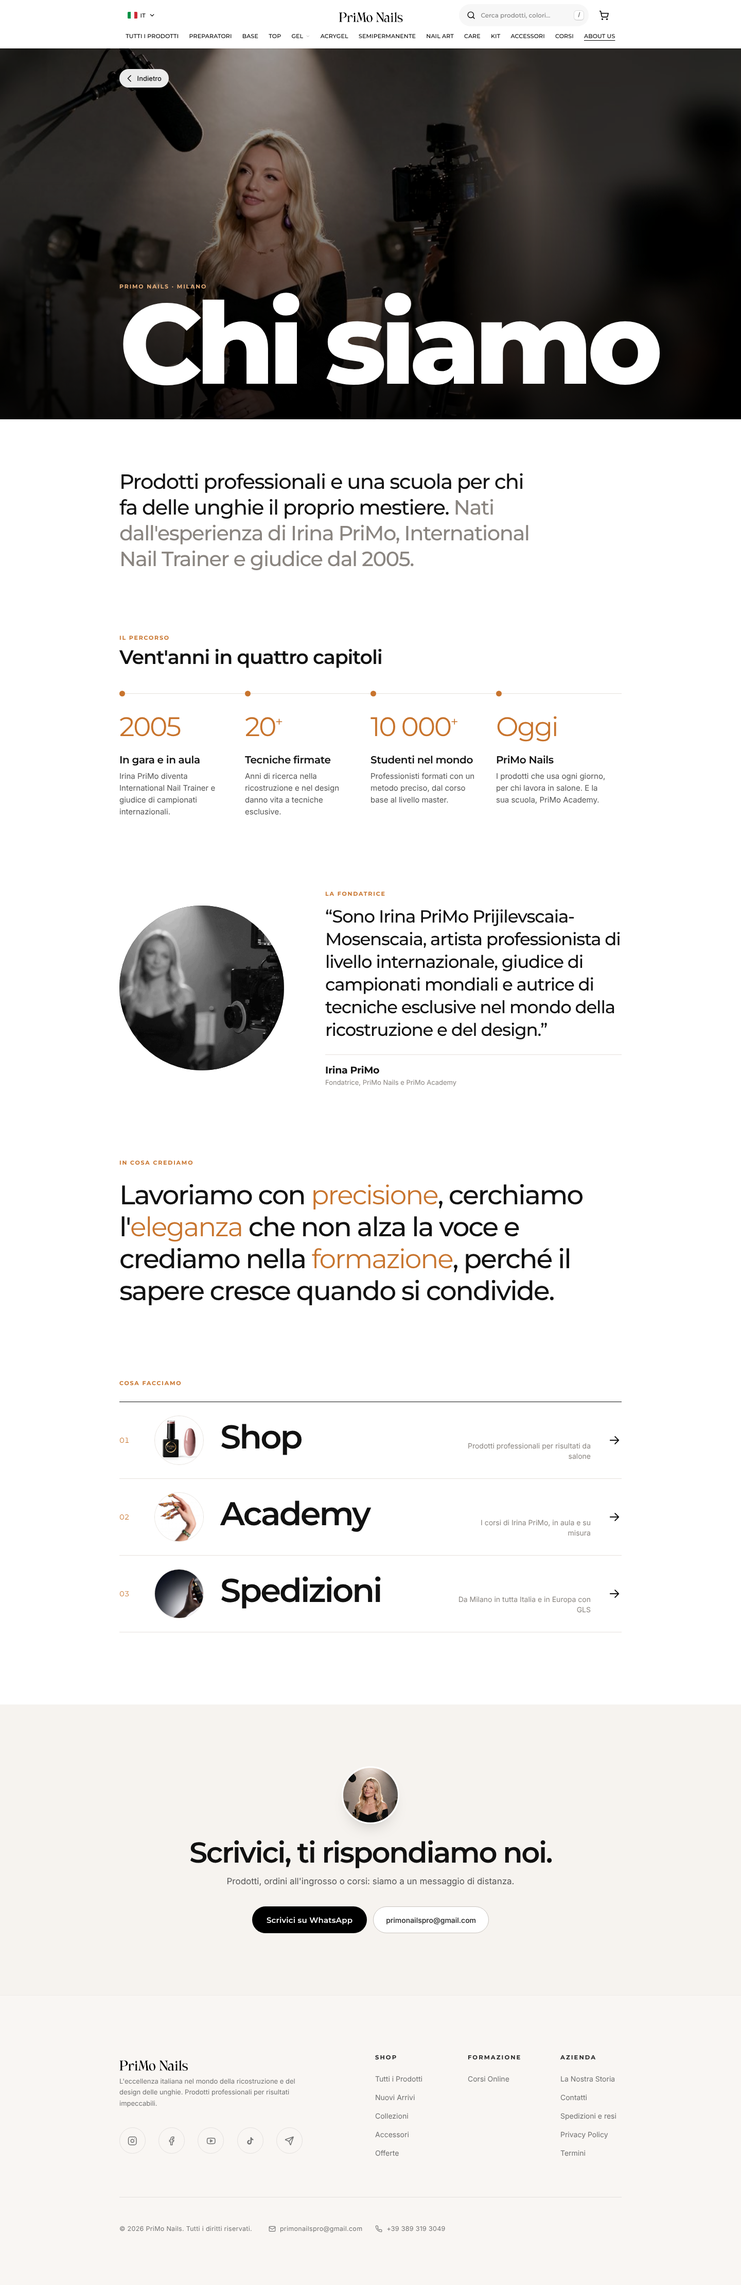
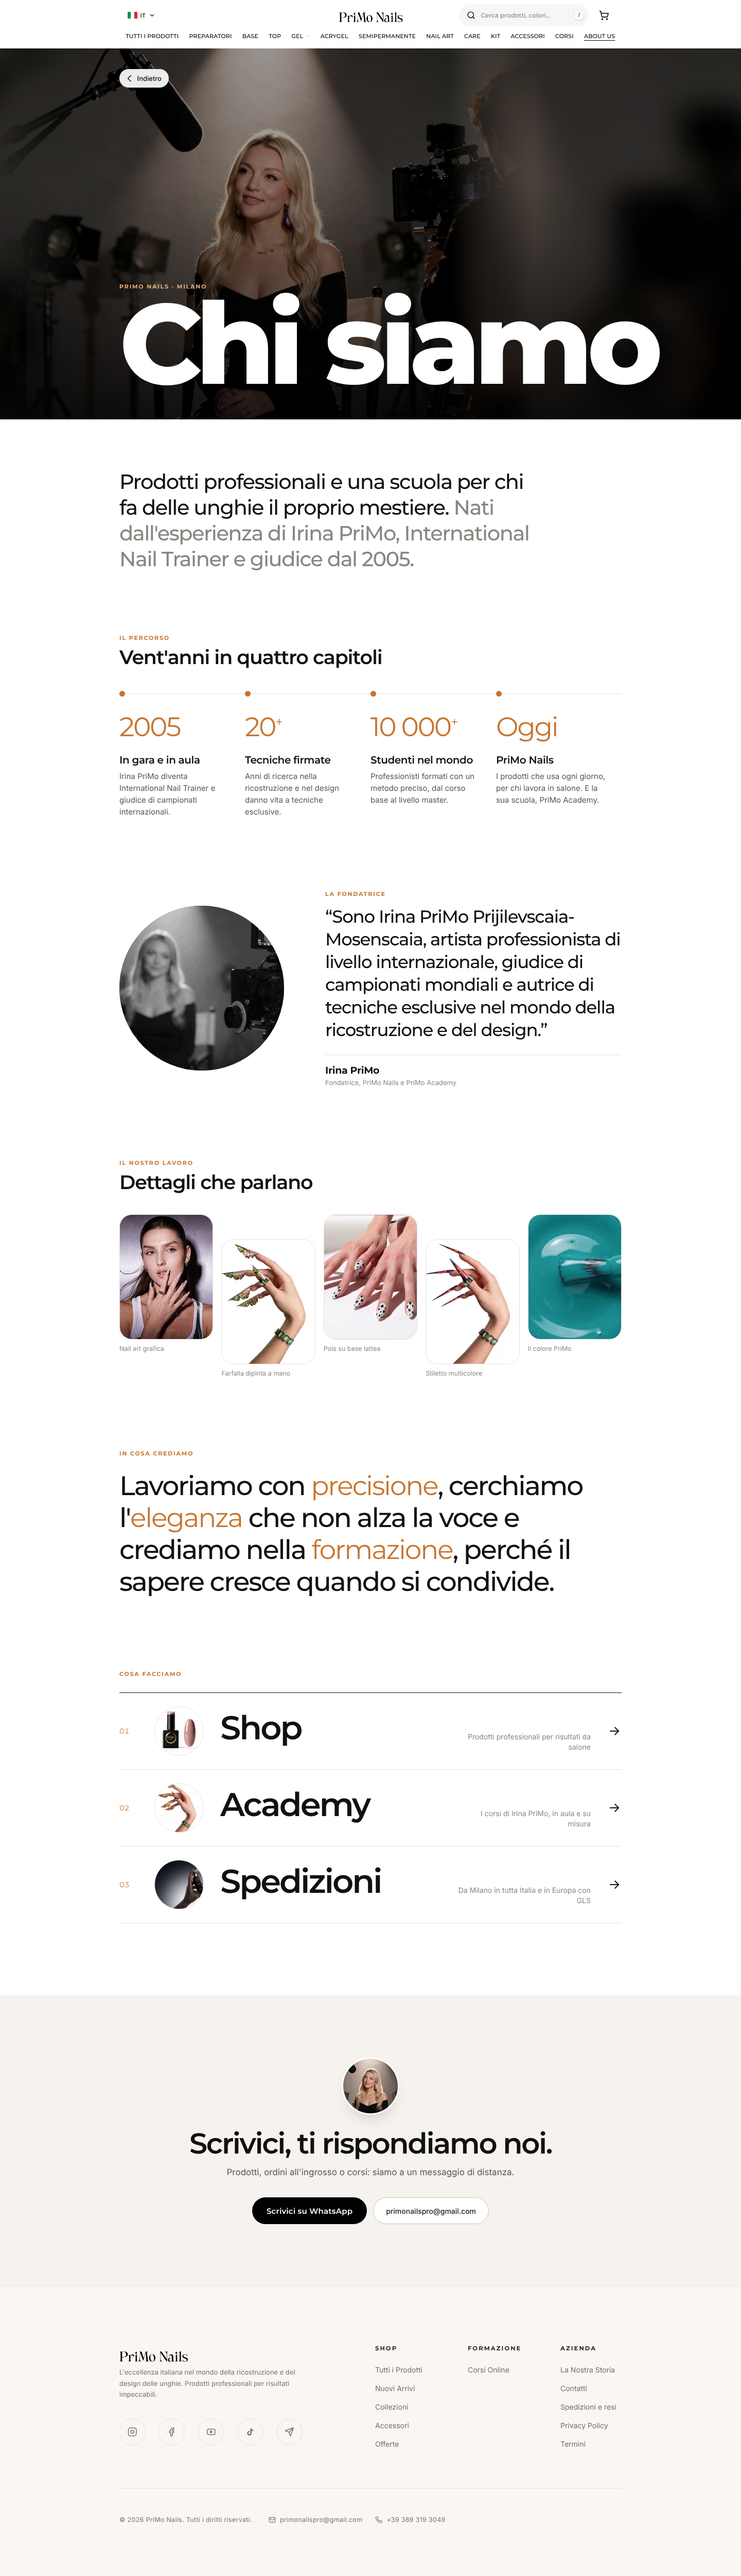
Chi siamo C/D: add a work gallery
A draggable strip of five tall photos with captions on phones and a
staggered row of five on desktop, after the founder section.

Claude-Session: https://claude.ai/code/session_017EUExbH1pksevugedMDwEj

diff --git a/chi-siamo.html b/chi-siamo.html
@@ -17,7 +17,7 @@
 <link rel="stylesheet" href="css/site.css?v=c7978bb5">
 <link rel="stylesheet" href="css/search.css?v=b89386fe">
 <link rel="stylesheet" href="css/academy.css?v=81ab524e">
-<link rel="stylesheet" href="css/about.css?v=87821489">
+<link rel="stylesheet" href="css/about.css?v=8da96cd0">
 </head>
 <body class="about">
 <div class="page" id="page">
@@ -186,6 +186,17 @@
         <h2 id="founder-h" class="sr">Irina PriMo</h2>
         <p class="abc-words">“Sono Irina PriMo Prijilevscaia-Mosenscaia, artista professionista di livello internazionale, giudice di campionati mondiali e autrice di tecniche esclusive nel mondo della ricostruzione e del design.”</p>
         <p class="abc-name">Irina PriMo<span>Fondatrice, PriMo Nails e PriMo Academy</span></p>
+      </div>
+    </section>
+
+    <section class="abc-gal" aria-labelledby="cg-h">
+      <div class="abc-gal-head"><p class="cx-eyebrow">Il nostro lavoro</p><h2 id="cg-h">Dettagli che parlano</h2></div>
+      <div class="abc-strip" data-drag tabindex="0" aria-label="Galleria lavori">
+        <figure><img src="img/about-portrait.jpg" alt="Manicure a mandorla con nail art grafica" loading="lazy"><figcaption>Nail art grafica</figcaption></figure>
+        <figure><img src="img/course2.jpg" alt="Nail art a farfalla dipinta a mano" loading="lazy"><figcaption>Farfalla dipinta a mano</figcaption></figure>
+        <figure><img src="img/gallery-dots.jpg" alt="Manicure bianca a pois neri" loading="lazy"><figcaption>Pois su base lattea</figcaption></figure>
+        <figure><img src="img/course3.jpg" alt="Unghie stiletto con decorazione multicolore" loading="lazy"><figcaption>Stiletto multicolore</figcaption></figure>
+        <figure><img src="img/hero2.jpg" alt="Gel color petrolio PriMo Nails" loading="lazy"><figcaption>Il colore PriMo</figcaption></figure>
       </div>
     </section>
 

diff --git a/css/about.css b/css/about.css
@@ -344,3 +344,23 @@
   .abd-end>p{max-width:none;font-size:17px;line-height:26px}
   .abd-ctas{flex-direction:row;justify-content:center;gap:12px;margin-top:36px}
 }
+
+/* C/D gallery: a draggable strip of tall photos on phones, a staggered row of five on desktop */
+.abc-gal{padding:72px 0 0}
+.abc-gal-head{padding:0 24px}
+.abc-gal h2{margin:8px 0 0;font-size:30px;line-height:36px;font-weight:600;letter-spacing:-.9px;color:#111}
+.abc-strip{display:flex;gap:12px;margin-top:28px;padding:0 24px 4px;overflow-x:auto;scroll-snap-type:x mandatory;scroll-padding:0 24px;scrollbar-width:none;overscroll-behavior-x:contain}
+.abc-strip::-webkit-scrollbar{display:none}
+.abc-strip figure{flex:none;width:64%;margin:0;scroll-snap-align:start}
+.abc-strip img{display:block;width:100%;aspect-ratio:3/4;object-fit:cover;border-radius:20px;border:1px solid var(--cx-line);background:#fff;transition:transform .5s var(--ease)}
+.abc-strip figcaption{margin-top:10px;font-family:var(--fi);font-size:12.5px;color:#8a8580}
+@media (hover:hover) and (pointer:fine){ .abc-strip figure:hover img{transform:translateY(-6px)} }
+@media (min-width:1024px){
+  .abc-gal{max-width:976px;margin:0 auto;padding-top:140px}
+  .abc-gal-head{padding:0}
+  .abc-gal h2{font-size:38px;line-height:44px;letter-spacing:-1.2px}
+  .abc-strip{display:grid;grid-template-columns:repeat(5,1fr);gap:16px;margin-top:40px;padding:0 0 48px;overflow:visible;cursor:default}
+  .abc-strip figure{width:auto}
+  .abc-strip figure:nth-child(even){transform:translateY(48px)}
+  .abc-strip img{border-radius:24px}
+}

diff --git a/src/pages/chi-siamo.html b/src/pages/chi-siamo.html
@@ -130,6 +130,17 @@
       </div>
     </section>
 
+    <section class="abc-gal" aria-labelledby="cg-h">
+      <div class="abc-gal-head"><p class="cx-eyebrow">Il nostro lavoro</p><h2 id="cg-h">Dettagli che parlano</h2></div>
+      <div class="abc-strip" data-drag tabindex="0" aria-label="Galleria lavori">
+        <figure><img src="img/about-portrait.jpg" alt="Manicure a mandorla con nail art grafica" loading="lazy"><figcaption>Nail art grafica</figcaption></figure>
+        <figure><img src="img/course2.jpg" alt="Nail art a farfalla dipinta a mano" loading="lazy"><figcaption>Farfalla dipinta a mano</figcaption></figure>
+        <figure><img src="img/gallery-dots.jpg" alt="Manicure bianca a pois neri" loading="lazy"><figcaption>Pois su base lattea</figcaption></figure>
+        <figure><img src="img/course3.jpg" alt="Unghie stiletto con decorazione multicolore" loading="lazy"><figcaption>Stiletto multicolore</figcaption></figure>
+        <figure><img src="img/hero2.jpg" alt="Gel color petrolio PriMo Nails" loading="lazy"><figcaption>Il colore PriMo</figcaption></figure>
+      </div>
+    </section>
+
     <div class="abc-low" data-low="c">
     <section class="abc-values" id="valori" aria-labelledby="values-h">
       <p class="cx-eyebrow">In cosa crediamo</p>
